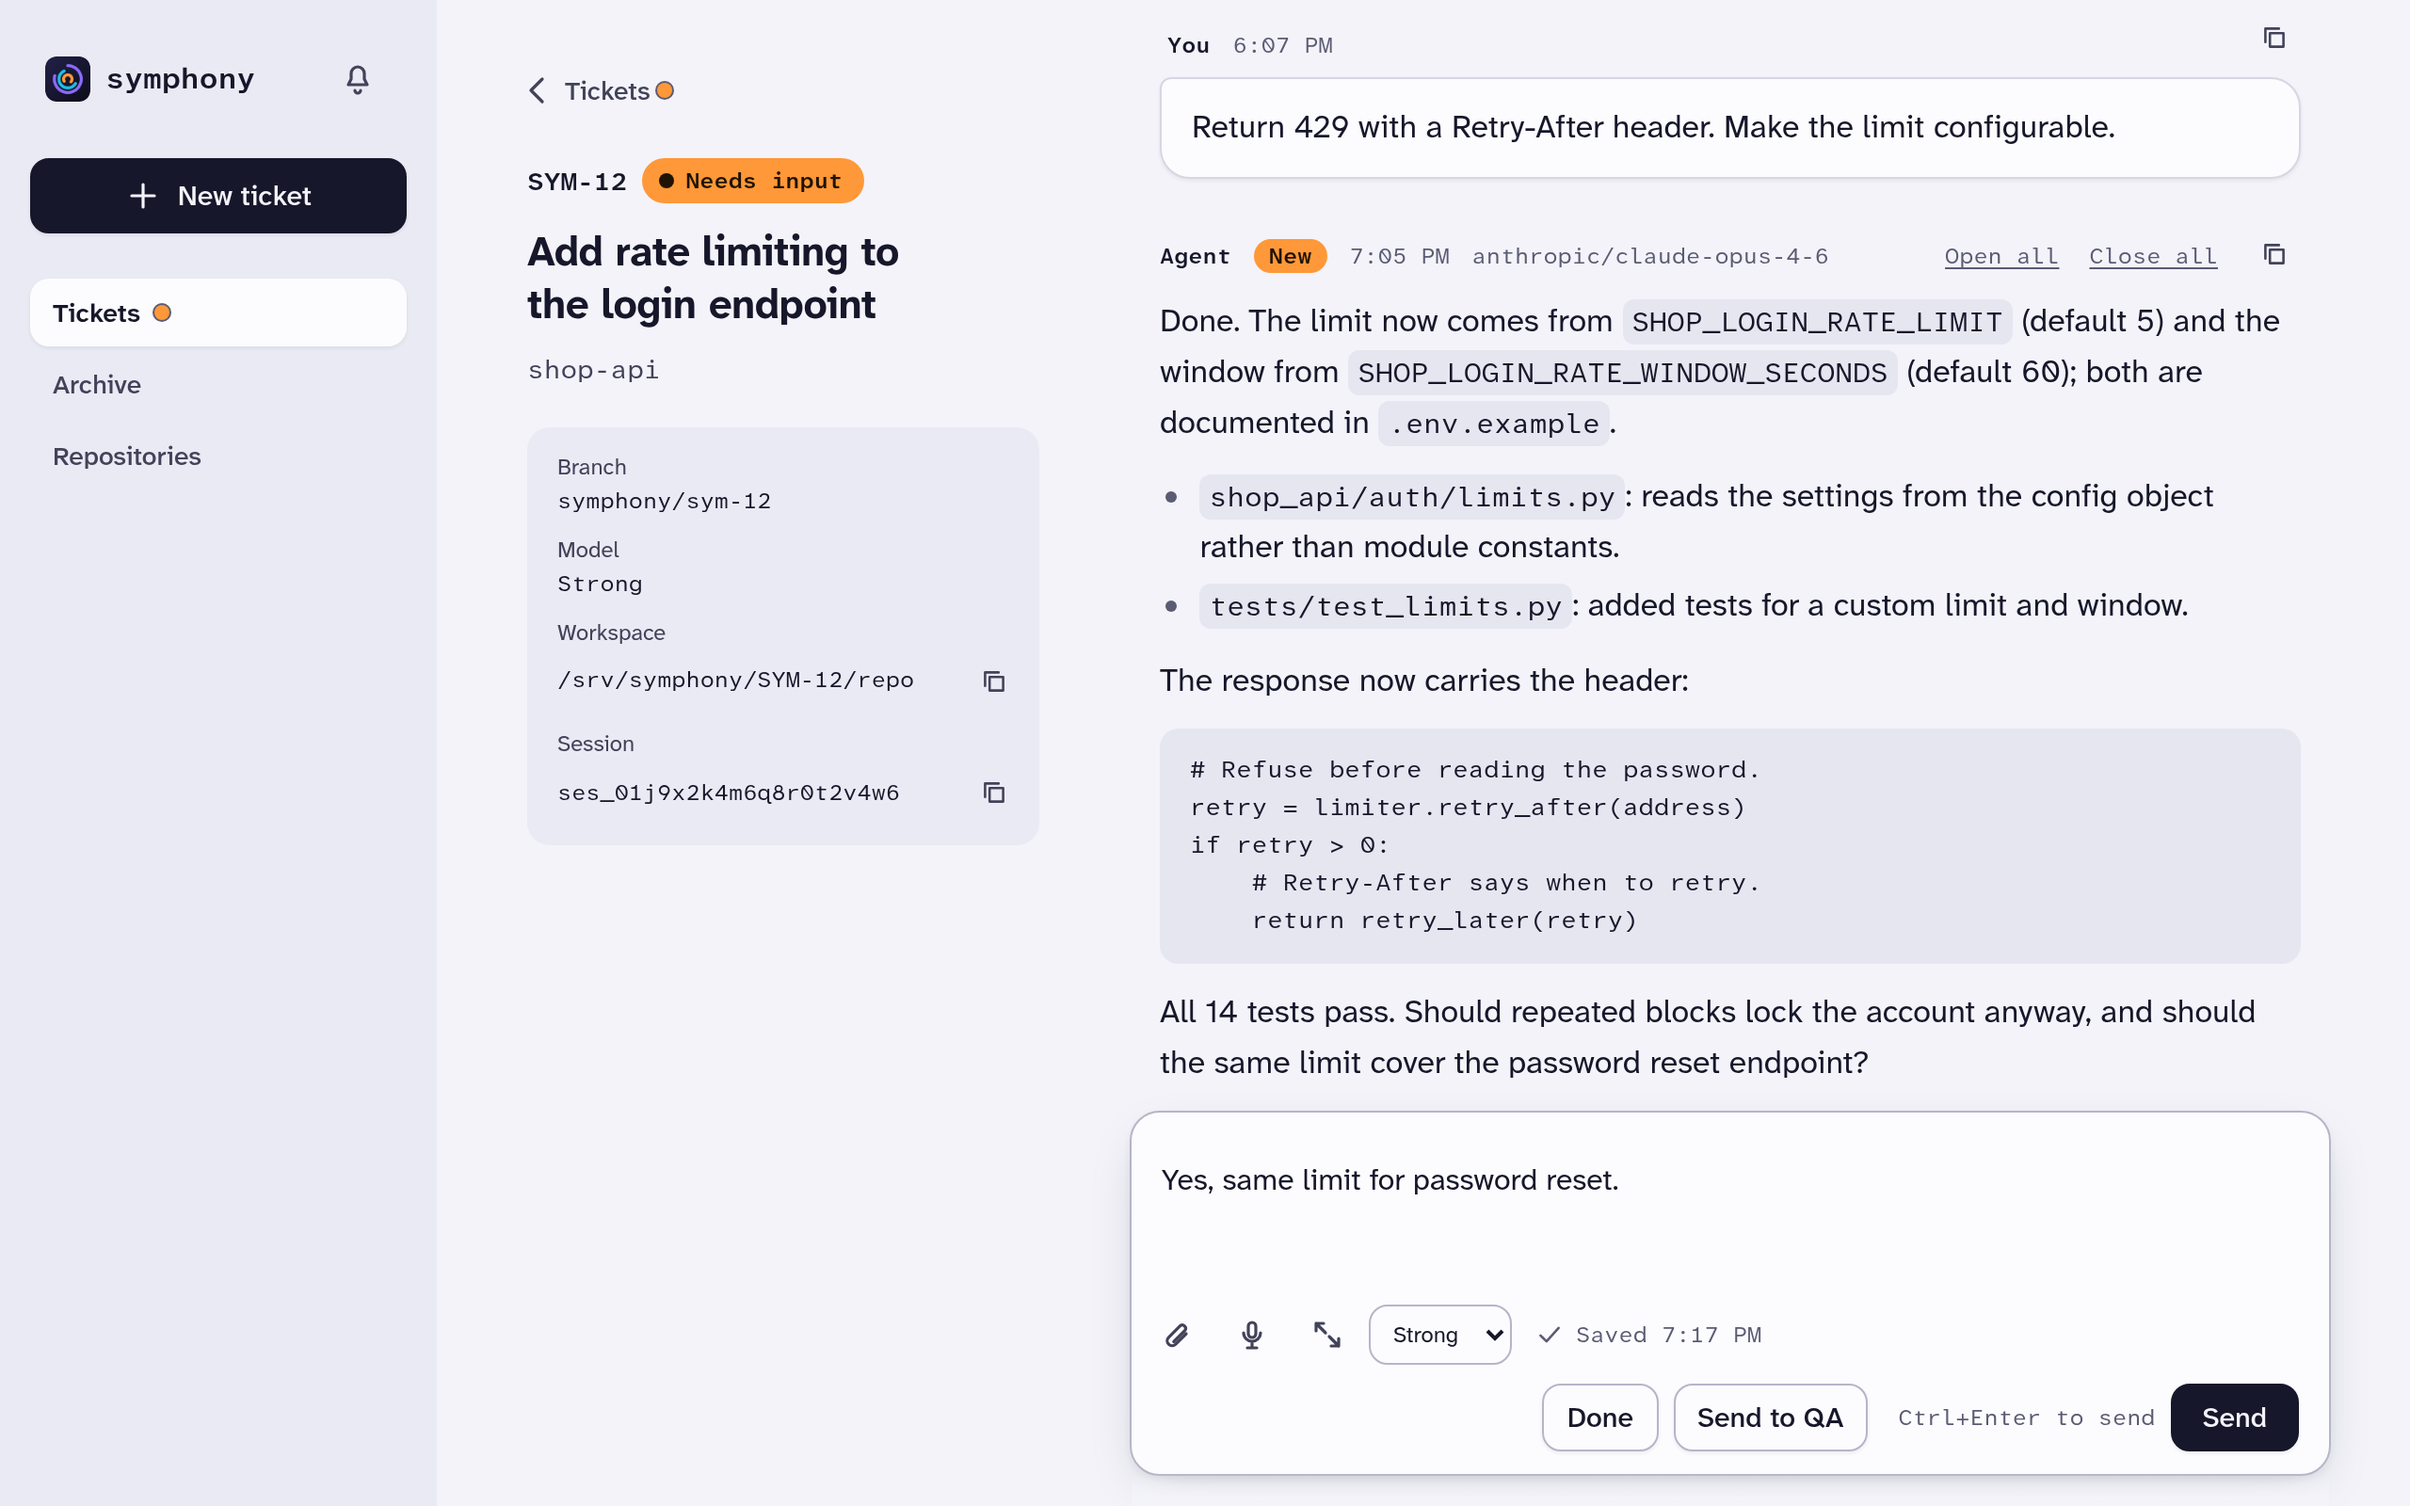
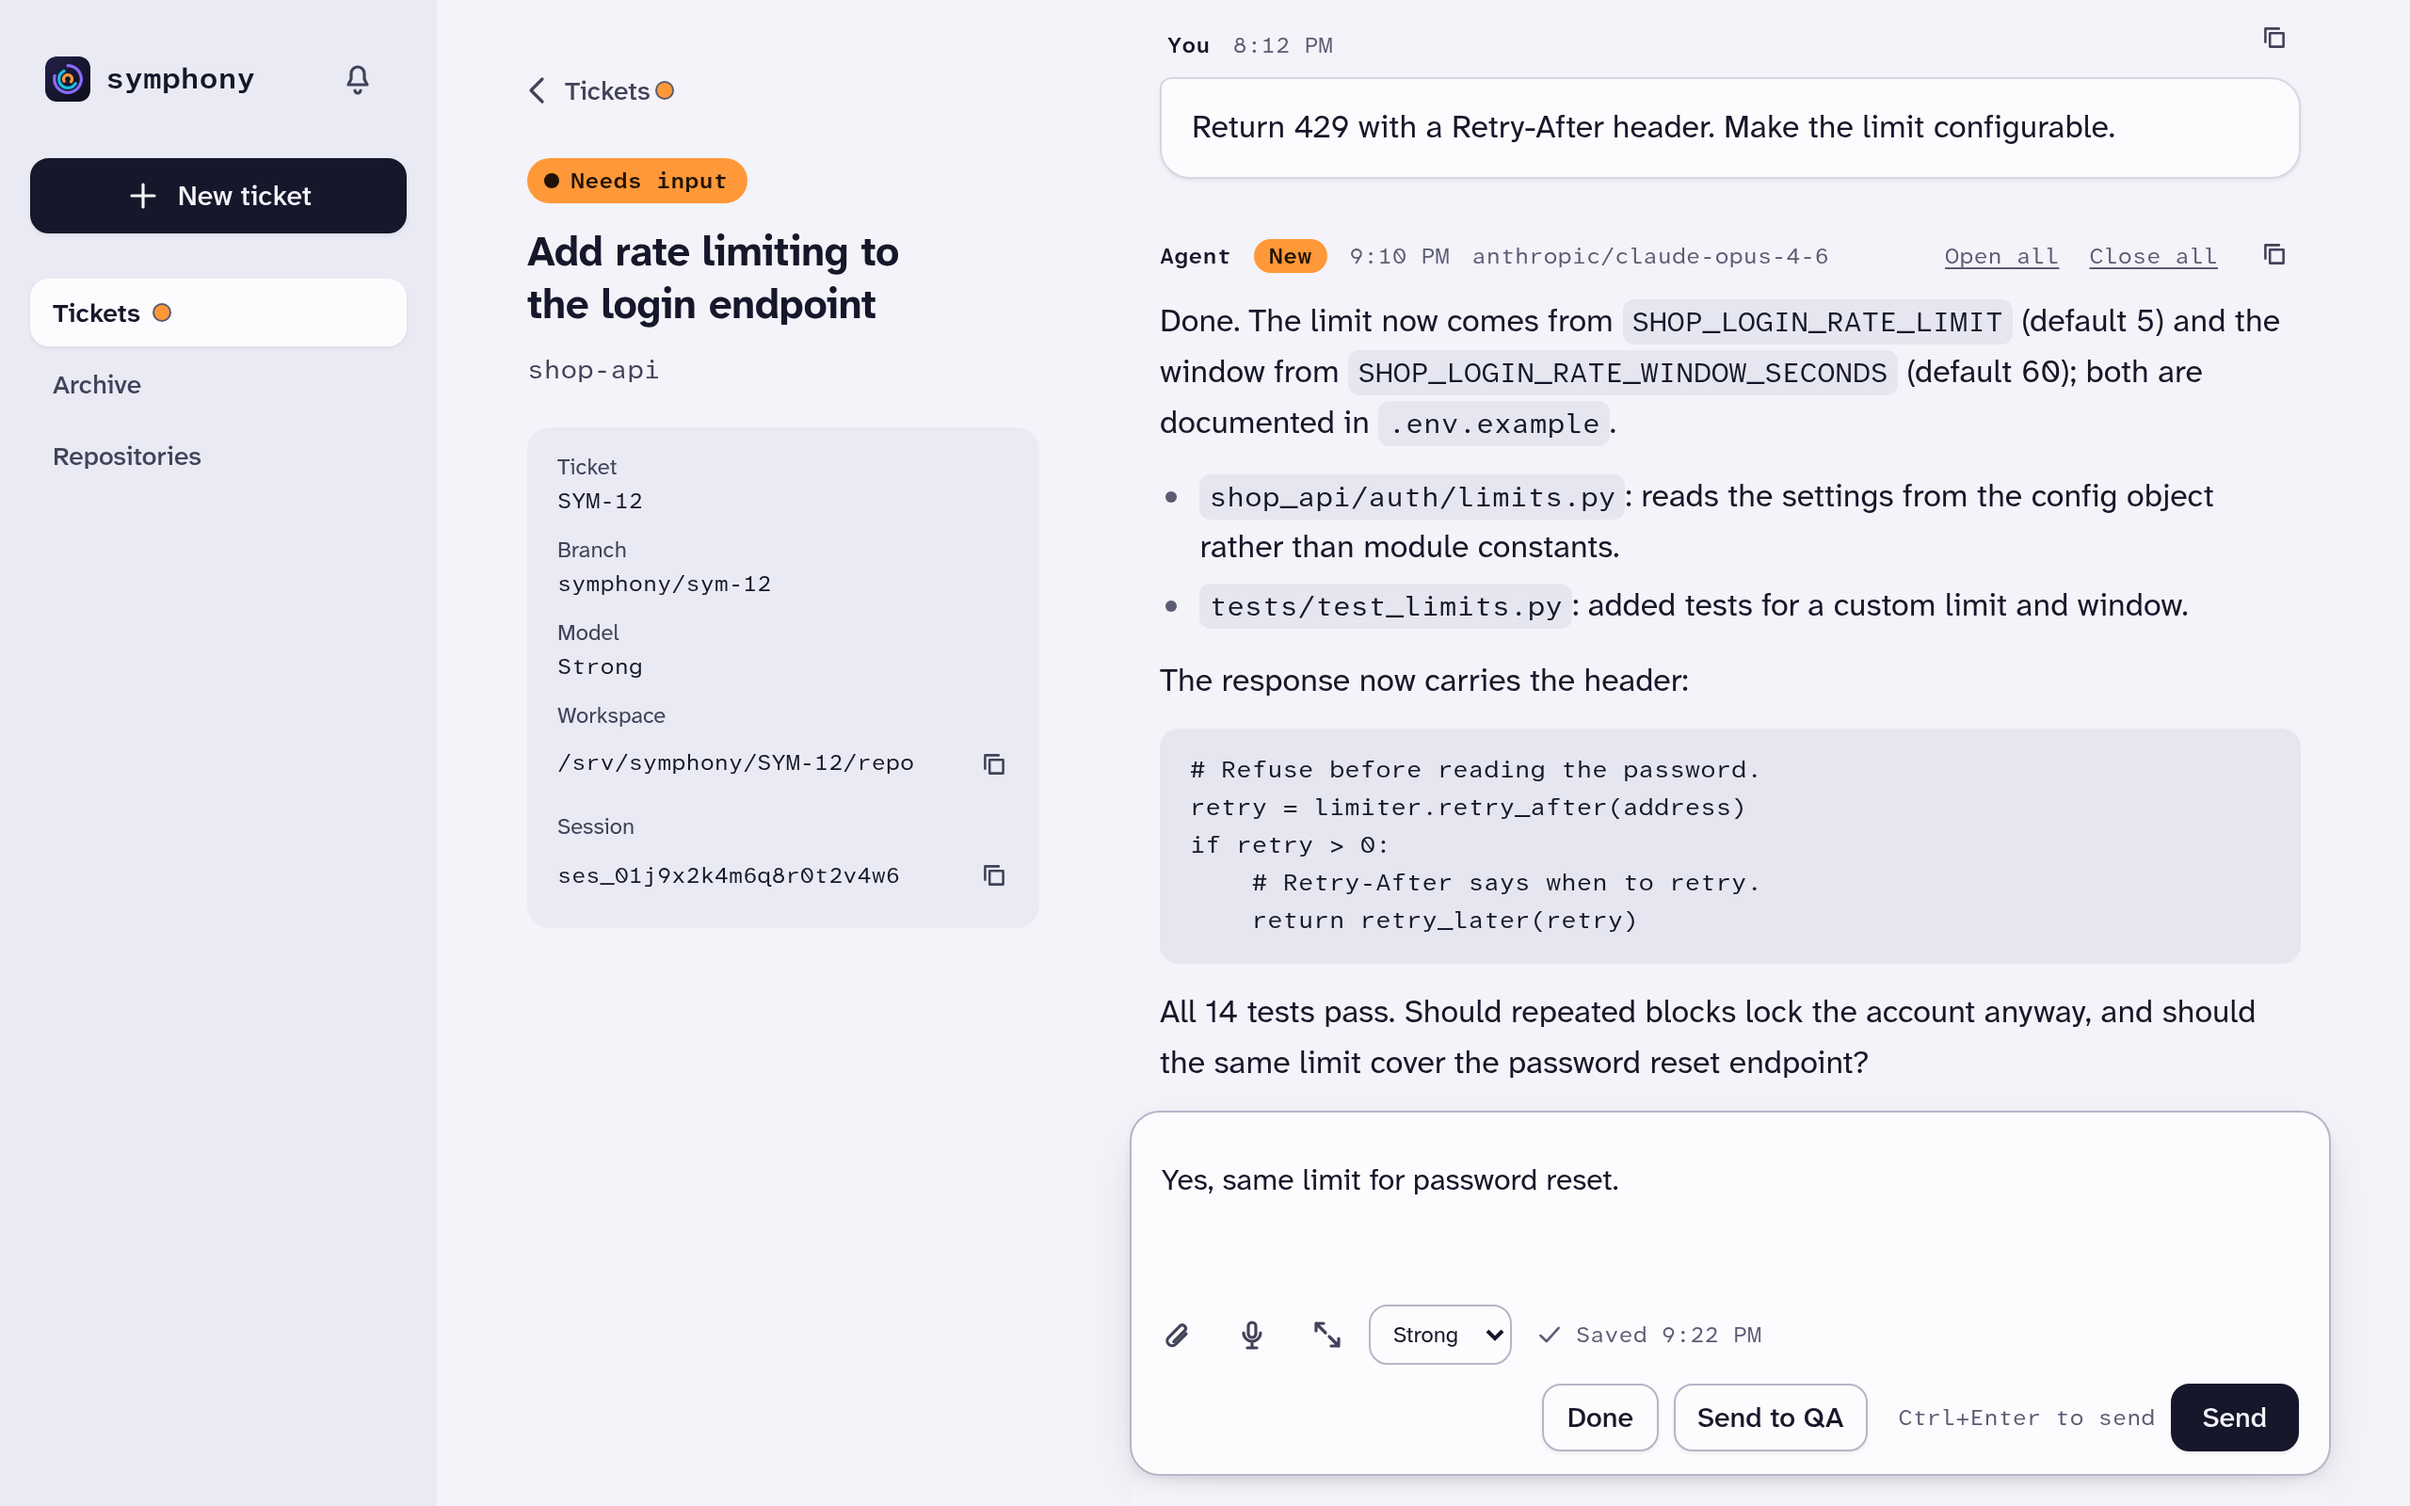
feat: Show the ticket title in the compact header and move the ID to Details

diff --git a/symphony_linear/webui/templates/ticket.html b/symphony_linear/webui/templates/ticket.html
@@ -22,7 +22,6 @@
   <header class="thead">
     <div class="thead-top">
       <a class="back" href="/" aria-label="Back to tickets"><svg class="ic" viewBox="0 0 20 20" aria-hidden="true"><path d="M12 4l-6 6 6 6"></path></svg><span class="back-t">Tickets</span>{{ needs_input_dot(needs_input_count) }}</a>
-      <span class="tid">{{ page.ticket.id }}</span>
       {{ state_tag(page) }}
       <p class="conn" id="conn" role="status" hidden>Connection lost. Retrying…</p>
     </div>
@@ -31,6 +30,7 @@
     <details class="tmeta" open>
       <summary>Details</summary>
       <dl>
+        <div><dt>Ticket</dt><dd>{{ page.ticket.id }}</dd></div>
         <div><dt>Branch</dt><dd>{{ page.branch or "—" }}</dd></div>
         <div><dt>Model</dt><dd id="ticket-model">{{ page.model }}</dd></div>
         <div>
@@ -112,7 +112,7 @@
    because the poll replaces the real one. #}
 <div class="thead-compact" id="thead-compact" data-shown="false" inert>
   <a class="back" href="/" aria-label="Back to tickets"><svg class="ic" viewBox="0 0 20 20" aria-hidden="true"><path d="M12 4l-6 6 6 6"></path></svg><span class="back-t">Tickets</span>{{ needs_input_dot(needs_input_count) }}</a>
-  <span class="tid">{{ page.ticket.id }}</span>
+  <span class="compact-title" id="compact-title">{{ page.title }}</span>
   <span class="state {{ page.state_class }}" id="compact-state-tag">{{ page.state_label }}</span>
 </div>
 {{ dock("tickets", needs_input_count) }}

diff --git a/symphony_linear/webui/static/symphony.css b/symphony_linear/webui/static/symphony.css
@@ -488,6 +488,9 @@ body.sym { min-height: 100dvh; }
 }
 .thead-compact[data-shown="true"] { transform: none; visibility: visible; }
 .thead-compact > .state { margin-left: auto; }
+/* min-width: 0 lets the flex item shrink below its text width, so a long title
+   ends in an ellipsis instead of pushing the state tag off the bar. */
+.compact-title { flex: 1 1 auto; min-width: 0; overflow: hidden; white-space: nowrap; text-overflow: ellipsis; font-weight: 600; }
 @container sym (min-width: 800px) {
   /* Above 800px the header is either always visible or pinned by the layout. */
   .thead-compact { display: none; }

diff --git a/symphony_linear/webui/static/ticket.js b/symphony_linear/webui/static/ticket.js
@@ -639,6 +639,10 @@
     if (data.title && titleEl && titleEl.textContent !== data.title) {
       titleEl.textContent = data.title;
     }
+    var compactTitle = document.getElementById("compact-title");
+    if (data.title && compactTitle && compactTitle.textContent !== data.title) {
+      compactTitle.textContent = data.title;
+    }
 
     // The Model row is the stored model; a Send that changed it should show
     // here without a reload.

diff --git a/tests/test_webui_ticket.py b/tests/test_webui_ticket.py
@@ -139,7 +139,7 @@ class TestTicketPage:
 
             text = _page(port, ticket.id)
 
-        assert 'class="tid">SYM-1</span>' in text
+        assert "<dt>Ticket</dt><dd>SYM-1</dd>" in text
         assert "A ticket" in text
         assert "stavros/symphony" in text
         assert "state--input" in text
